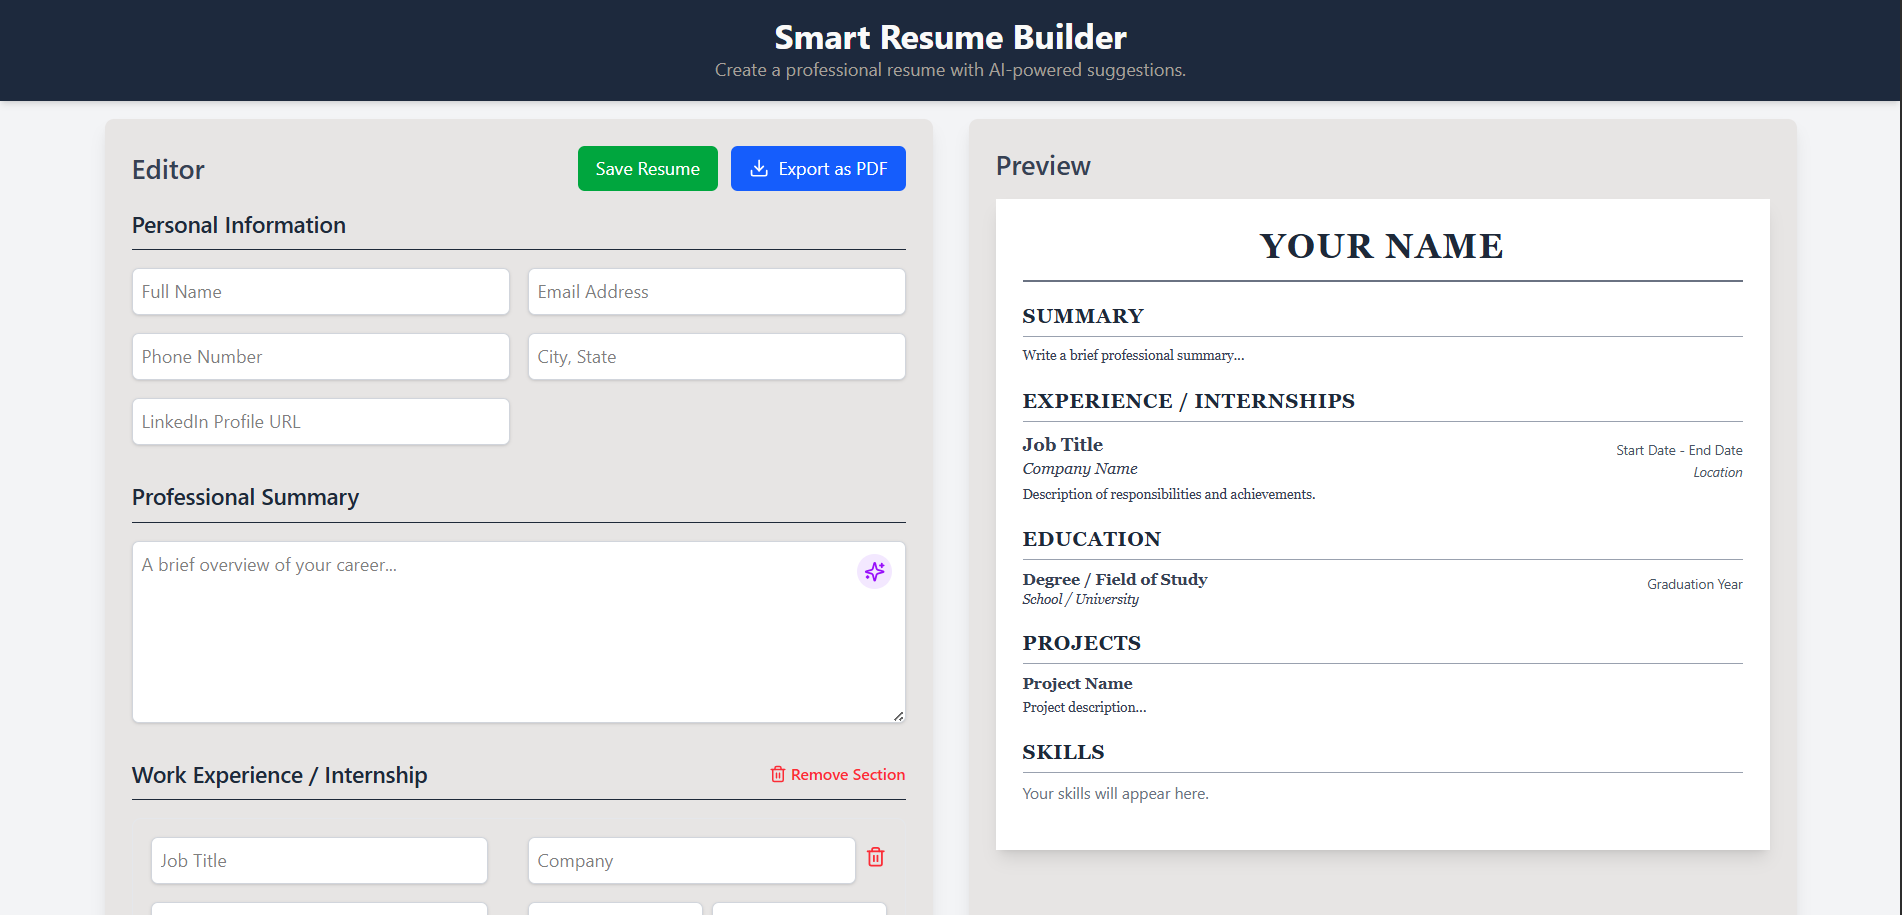
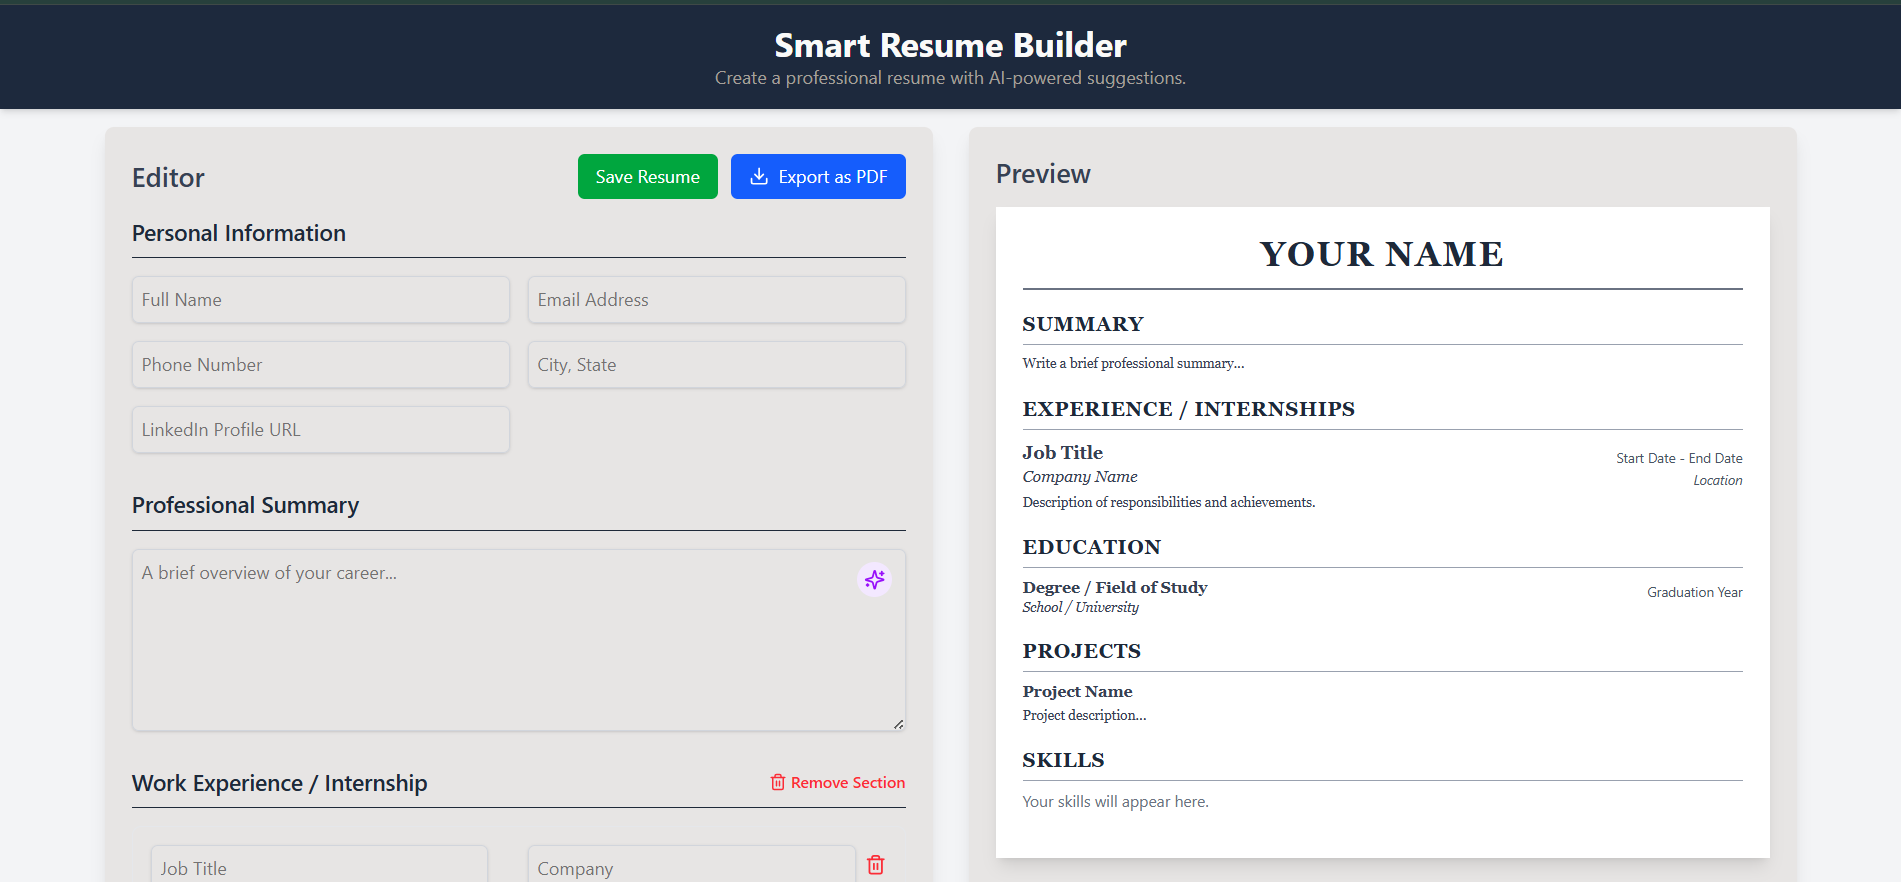
Smart Resume Builder Project Completed Final

diff --git a/client/src/components/ResumeForm.jsx b/client/src/components/ResumeForm.jsx
@@ -13,7 +13,7 @@ const ResumeForm = ({ resumeData, setResumeData }) => {
   const [aiError, setAiError] = useState(null); // New state for AI suggestion errors
   const [aiExplanation, setAiExplanation] = useState(null); // New state for AI explanation
 
-  // --- GENERIC CHANGE HANDLER ---
+
   // Handles changes for simple fields (like personal info and summary)
   const handleChange = (e, section) => {
     const { name, value } = e.target;
@@ -27,7 +27,6 @@ const ResumeForm = ({ resumeData, setResumeData }) => {
   };
 
   // --- EDUCATION HANDLERS ---
-  // Handles changes for fields within the education list
   const handleEducationChange = (e, index) => {
     const { name, value } = e.target;
     const list = [...resumeData.education];
@@ -57,7 +56,7 @@ const ResumeForm = ({ resumeData, setResumeData }) => {
       if (!resumeData.skills.includes(currentSkill.trim())) {
         setResumeData(prevData => ({ ...prevData, skills: [...prevData.skills, currentSkill.trim()] }));
       }
-      setCurrentSkill(""); // Clear the input
+      setCurrentSkill(""); 
     }
   };
   const removeSkill = (skillToRemove) => {
@@ -150,7 +149,7 @@ const removeExperience = (index) => {
           <input
             type="text"
             name="fullName"
-            className="p-2 border border-gray-300 rounded-md shadow-sm bg-white"
+            className="p-2 border border-gray-300 rounded-md shadow-sm "
             placeholder="Full Name"
             value={resumeData.personalInfo.fullName}
             onChange={(e) => handleChange(e, 'personalInfo')}
@@ -158,7 +157,7 @@ const removeExperience = (index) => {
           <input
             type="email"
             name="email"
-            className="p-2 border border-gray-300 rounded-md shadow-sm bg-white"
+            className="p-2 border border-gray-300 rounded-md shadow-sm "
             placeholder="Email Address"
             value={resumeData.personalInfo.email}
             onChange={(e) => handleChange(e, 'personalInfo')}
@@ -166,7 +165,7 @@ const removeExperience = (index) => {
           <input
             type="tel"
             name="phone"
-            className="p-2 border border-gray-300 rounded-md shadow-sm bg-white"
+            className="p-2 border border-gray-300 rounded-md shadow-sm "
             placeholder="Phone Number"
             value={resumeData.personalInfo.phone}
             onChange={(e) => handleChange(e, 'personalInfo')}
@@ -174,7 +173,7 @@ const removeExperience = (index) => {
           <input
             type="text"
             name="address"
-            className="p-2 border border-gray-300 rounded-md shadow-sm bg-white"
+            className="p-2 border border-gray-300 rounded-md shadow-sm"
             placeholder="City, State"
             value={resumeData.personalInfo.address}
             onChange={(e) => handleChange(e, 'personalInfo')}
@@ -182,7 +181,7 @@ const removeExperience = (index) => {
            <input
             type="text"
             name="linkedin"
-            className="p-2 border border-gray-300 rounded-md shadow-sm bg-white"
+            className="p-2 border border-gray-300 rounded-md shadow-sm"
             placeholder="LinkedIn Profile URL"
             value={resumeData.personalInfo.linkedin}
             onChange={(e) => handleChange(e, 'personalInfo')}
@@ -197,7 +196,7 @@ const removeExperience = (index) => {
           <textarea
             name="summary"
             rows="6"
-            className="block w-full p-2 border border-gray-300 rounded-md shadow-sm bg-white"
+            className="block w-full p-2 border border-gray-300 rounded-md shadow-sm"
             placeholder="A brief overview of your career..."
             value={resumeData.summary}
             onChange={(e) => setResumeData({...resumeData, summary: e.target.value})}
@@ -286,15 +285,15 @@ const removeExperience = (index) => {
           <Trash2 size={19} />
         </button>
         <div className="grid grid-cols-1 md:grid-cols-2 gap-4">
-            <input type="text" name="jobTitle" className="p-2 border border-gray-300 rounded-md shadow-sm w-75 bg-white" placeholder="Job Title" value={exp.jobTitle} onChange={(e) => handleExperienceChange(e, index)} />
-            <input type="text" name="company" className="p-2 border border-gray-300 rounded-md shadow-sm w-73 bg-white" placeholder="Company" value={exp.company} onChange={(e) => handleExperienceChange(e, index)} />
-            <input type="text" name="location" className="p-2 border border-gray-300 rounded-md shadow-sm w-75 bg-white" placeholder="Location (e.g., Remote)" value={exp.location} onChange={(e) => handleExperienceChange(e, index)} />
+            <input type="text" name="jobTitle" className="p-2 border border-gray-300 rounded-md shadow-sm w-75 " placeholder="Job Title" value={exp.jobTitle} onChange={(e) => handleExperienceChange(e, index)} />
+            <input type="text" name="company" className="p-2 border border-gray-300 rounded-md shadow-sm w-73 " placeholder="Company" value={exp.company} onChange={(e) => handleExperienceChange(e, index)} />
+            <input type="text" name="location" className="p-2 border border-gray-300 rounded-md shadow-sm w-75 " placeholder="Location (e.g., Remote)" value={exp.location} onChange={(e) => handleExperienceChange(e, index)} />
             <div className="grid grid-cols-2 gap-2">
-                <input type="text" name="startDate" className="p-2 border border-gray-300 rounded-md shadow-sm bg-white" placeholder="Start Date" value={exp.startDate} onChange={(e) => handleExperienceChange(e, index)} />
-                <input type="text" name="endDate" className="p-2 border border-gray-300 rounded-md shadow-sm bg-white" placeholder="End Date" value={exp.endDate} onChange={(e) => handleExperienceChange(e, index)} />
+                <input type="text" name="startDate" className="p-2 border border-gray-300 rounded-md shadow-sm " placeholder="Start Date" value={exp.startDate} onChange={(e) => handleExperienceChange(e, index)} />
+                <input type="text" name="endDate" className="p-2 border border-gray-300 rounded-md shadow-sm " placeholder="End Date" value={exp.endDate} onChange={(e) => handleExperienceChange(e, index)} />
             </div>
         </div>
-        <textarea name="description" rows="5" className="w-full p-2 border border-gray-300 rounded-md shadow-sm bg-white" placeholder="Describe your responsibilities and achievements..." value={exp.description} onChange={(e) => handleExperienceChange(e, index)} />
+        <textarea name="description" rows="5" className="w-full p-2 border border-gray-300 rounded-md shadow-sm " placeholder="Describe your responsibilities and achievements..." value={exp.description} onChange={(e) => handleExperienceChange(e, index)} />
       </div>
     ))}
     <button type="button" onClick={addExperience} className="flex items-center gap-2 text-blue-600 hover:text-blue-800 font-medium">
@@ -324,7 +323,7 @@ const removeExperience = (index) => {
               <input
                 type="text"
                 name="degree"
-                className="p-2 border border-gray-300 rounded-md shadow-sm bg-white"
+                className="p-2 border border-gray-300 rounded-md shadow-sm w-75 "
                 placeholder="Degree Name / Field of Study"
                 value={edu.degree}
                 onChange={(e) => handleEducationChange(e, index)}
@@ -332,7 +331,7 @@ const removeExperience = (index) => {
               <input
                 type="text"
                 name="school"
-                className="p-2 border border-gray-300 rounded-md shadow-sm bg-white"
+                className="p-2 border border-gray-300 rounded-md shadow-sm w-75 "
                 placeholder="School / University"
                 value={edu.school}
                 onChange={(e) => handleEducationChange(e, index)}
@@ -340,7 +339,7 @@ const removeExperience = (index) => {
               <input
                 type="text"
                 name="gradYear"
-                className="p-2 border border-gray-300 rounded-md shadow-sm w-75 bg-white"
+                className="p-2 border border-gray-300 rounded-md shadow-sm w-75 "
                 placeholder="Graduation Year"
                 value={edu.gradYear}
                 onChange={(e) => handleEducationChange(e, index)}
@@ -384,7 +383,7 @@ const removeExperience = (index) => {
             <input
               type="text"
               name="name"
-              className="p-2 border border-gray-300 rounded-md shadow-sm w-xl bg-white"
+              className="p-2 border border-gray-300 rounded-md shadow-sm w-xl "
               placeholder="Project Name"
               value={proj.name}
               onChange={(e) => handleProjectChange(e, index)}
@@ -393,7 +392,7 @@ const removeExperience = (index) => {
               <textarea
                 name="description"
                 rows="5"
-                className="w-full p-2 border border-gray-300 rounded-md shadow-sm bg-white"
+                className="w-full p-2 border border-gray-300 rounded-md shadow-sm "
                 placeholder="Project Description"
                 value={proj.description}
                 onChange={(e) => handleProjectChange(e, index)}
@@ -472,7 +471,7 @@ const removeExperience = (index) => {
             <input
               type="text"
               name="link"
-              className="w-full p-2 border border-gray-300 rounded-md shadow-sm bg-white"
+              className="w-full p-2 border border-gray-300 rounded-md shadow-sm "
               placeholder="Project Link (optional)"
               value={proj.link}
               onChange={(e) => handleProjectChange(e, index)}
@@ -503,7 +502,7 @@ const removeExperience = (index) => {
           ))}
           <input
             type="text"
-            className="flex-grow p-1 outline-none bg-white"
+            className="flex-grow p-1 outline-none "
             placeholder="Add a skill and press Enter..."
             value={currentSkill}
             onChange={(e) => setCurrentSkill(e.target.value)}

diff --git a/server/routes/resumeRoutes.js b/server/routes/resumeRoutes.js
@@ -1,13 +1,12 @@
-// server/routes/resumeRoutes.js (NEW VERSION using axios)
 
 const express = require('express');
 const router = express.Router();
-const axios = require('axios'); // Import axios
-const path = require('path'); // Import the path module
+const axios = require('axios'); 
+const path = require('path'); 
 require('dotenv').config({ path: path.resolve(__dirname, '../.env') }); // Load environment variables from .env file using absolute path
 
 
-// This is the correct model name for the API.
+
 const LLM_API_KEY = process.env.LLM_API_KEY;
 const GEMINI_URL = `https://generativelanguage.googleapis.com/v1beta/models/gemini-2.0-flash:generateContent?key=${LLM_API_KEY}`;
 console.log(GEMINI_URL);
@@ -71,7 +70,7 @@ router.post('/ai/suggest', async (req, res) => {
     };
 
     try {
-        // Make the POST request using axios, just like your curl command
+       
         const response = await axios.post(GEMINI_URL, requestData);
 
         // Extract the AI's response text from the deeply nested structure

diff --git a/client/tailwind.config.js b/client/tailwind.config.js
@@ -18,7 +18,7 @@ export default {
       red: colors.red,
       green: colors.green,
       yellow: colors.yellow,
-      // Add other color sets if you use them, e.g., 'emerald', 'sky'
+
 
       // **OVERRIDE the problematic colors with safe, non-oklch versions**
       gray: {
@@ -46,7 +46,7 @@ export default {
         600: '#7c3aed',
         700: '#6d28d9',
       },
-      indigo: { // used for focus rings
+      indigo: {
         500: '#6366f1',
       }
     },

diff --git a/client/src/App.jsx b/client/src/App.jsx
@@ -23,7 +23,7 @@ function App() {
       gradYear: ''
     }
   ],
-  skills: [], // An array to hold skill strings
+  skills: [], 
   projects: [
     {
       name: '',
@@ -48,7 +48,7 @@ const handleExportPDF = () => {
   window.print();
 };
 
-  // --- NEW: handleSaveResume function ---
+  //  handleSaveResume function ---
   const handleSaveResume = async () => {
     try {
       // Send the entire resumeData object to your backend's /api/resume endpoint

diff --git a/README.md b/README.md
@@ -11,5 +11,11 @@ SMART RESUME BUILDER WITH AI SUGGESTIONS
 
 ![alt text](client/public/Screenshot-two.png)
 
-7. View the Project Reoprt on Smart Resume Builder using AI suggestions to get moe detailed informaton:
+7. Screenshot of how AI Sugestions Look like
+![alt text](client/public/Screenshot-three.png)
+
+8. Exporting Resume as PDF
+![alt text](client/public/Screenshot-four.png)
+
+9. View the Project Reoprt on Smart Resume Builder using AI suggestions to get moe detailed informaton:
 [text](<PROJECT REPORT.pdf>)
